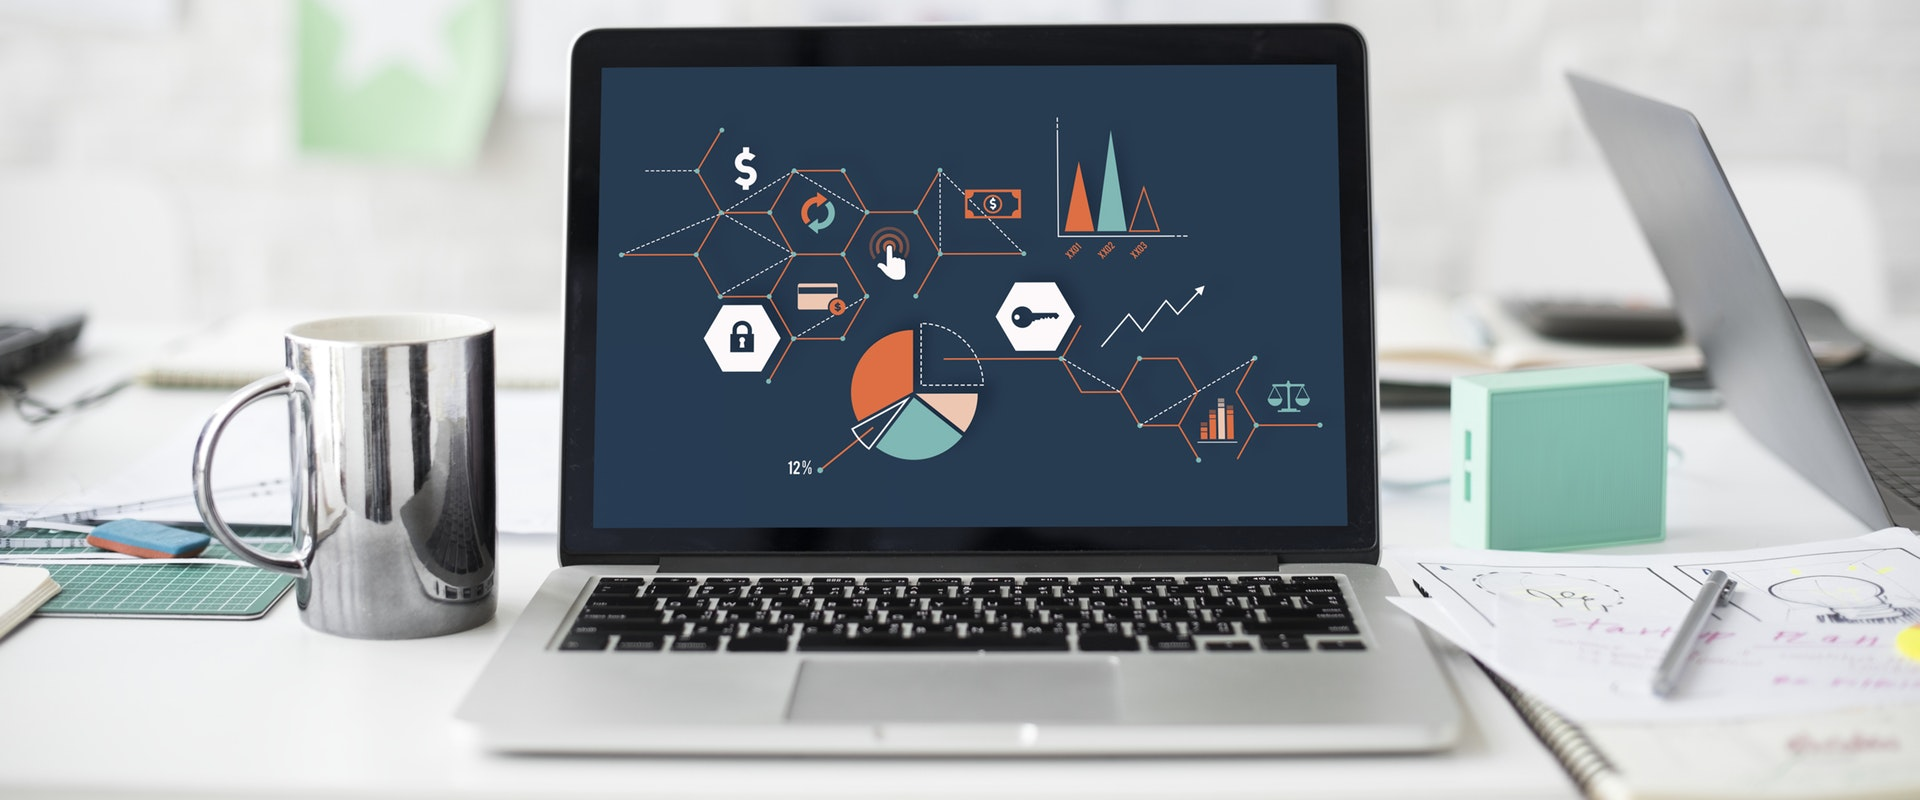
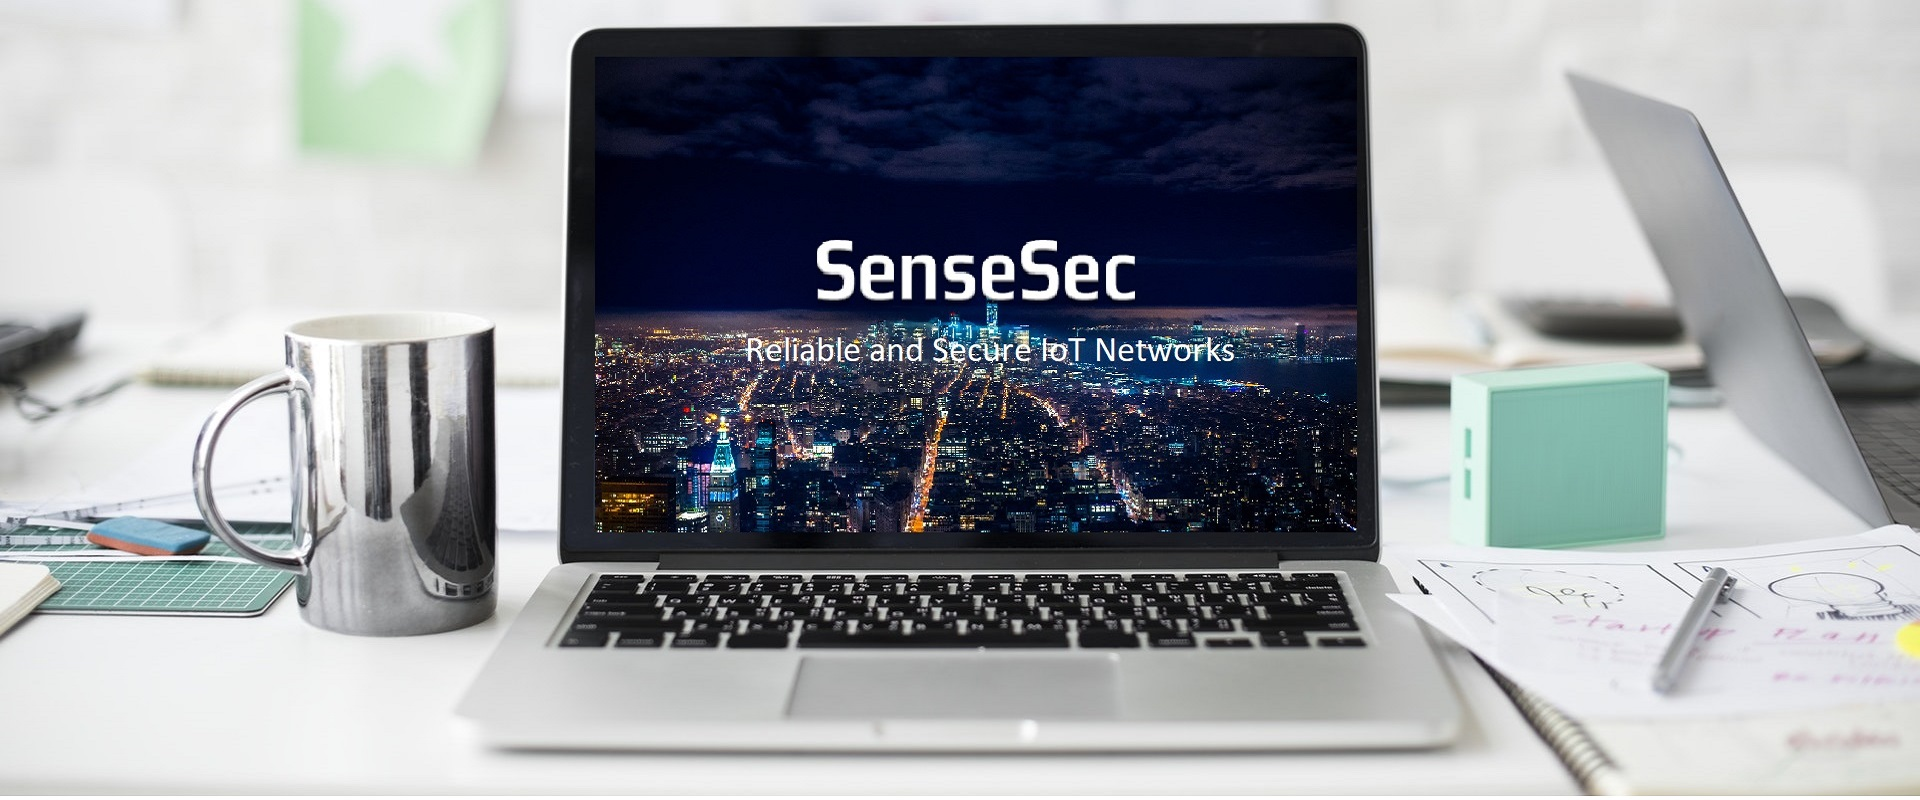
changes to structure and images

diff --git a/cms/products/IoT-Solutions.js b/cms/products/IoT-Solutions.js
@@ -1,0 +1,16 @@
+({
+	iotSolutions: {
+		heading: 'IoT lösningar baserat på LoRaWAN',
+		image: '',
+		textOne: 'q2d levererar IoT lösningar baserade på LoRaWAN tekniken.',
+    subHeaderOne: 'Infrastruktur:',
+		textTwo: 'LoRa sensorer och gateways kommer ifrån Elsys. Läs mer om produkterna du kan välja bland på',
+		textThree: 'SenseSec är vår programvara som hanterar sensorerna och infrastrukturen',
+    subHeaderTwo: 'Prototypverkstad:',
+    textFour: 'Vi hjälper er att testa IoT lösningar i din verksamhet.',
+    linkOne: '',
+    linkOneText: 'Elsys hemsida',
+    linkTwo: '',
+    linkTwoText: 'SenseSec'
+	}
+})

diff --git a/cms/products/integration.js b/cms/products/integration.js
@@ -1,7 +1,7 @@
 ({
 	integration: {
 		heading: 'Licensfri Integration',
-		image: '',
+		image: 'integration-test1.jpeg',
 		items: [
 			{
 				text: 'Remix är namnet på vårt koncept där vi använder licensfria produkter för att bygga webb- och mobila lösningar samt integration.'

diff --git a/cms/product.js b/cms/product.js
@@ -28,8 +28,11 @@
 				textOne: 'En introduktion till licensfria webbtekniker och integration.',
 				textTwo: '',
 				linkText: 'Läs mer',
-				link: '/products/senseSec'
+				link: '/products/IoT-Solutions'
 			}
 		]
+	},
+	meta: {
+		last_edited: 1525863432
 	}
 })

diff --git a/cms/index.js b/cms/index.js
@@ -1,6 +1,6 @@
 ({
 	topImage: {
-	  image: 'bg-third.jpeg',
+	  image: 'beach.jpg',
 	  title: 'Licensfria webbportaler och mobila appar',
 	  subText: 'Snabbt, användarvänligt, säkert och kostnadseffektivt'
 	},

diff --git a/assets/js/footer.js b/assets/js/footer.js
@@ -1,5 +1,5 @@
 function footerFix() {
-  let height = $('footer').outerHeight() + 200;
+  let height = $('footer').outerHeight() + 100;
   $('body').css({marginBottom: height});
 }
 

diff --git a/assets/css/main.scss b/assets/css/main.scss
@@ -8,9 +8,11 @@
 
 main{
   margin-top: 80px;
+  min-height: 60vh;
 }
 
 body{
+  min-height: 50vh;
 }
 
 footer{
